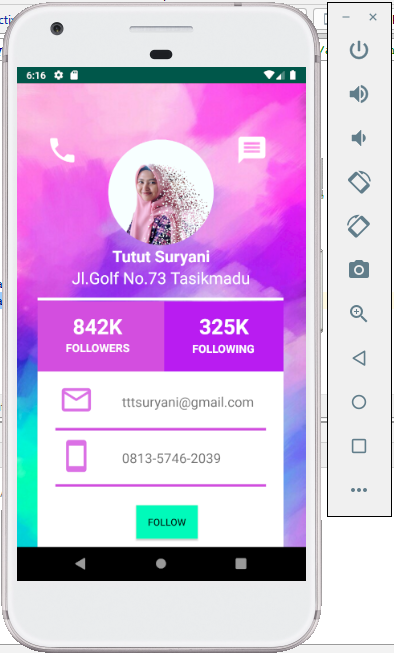
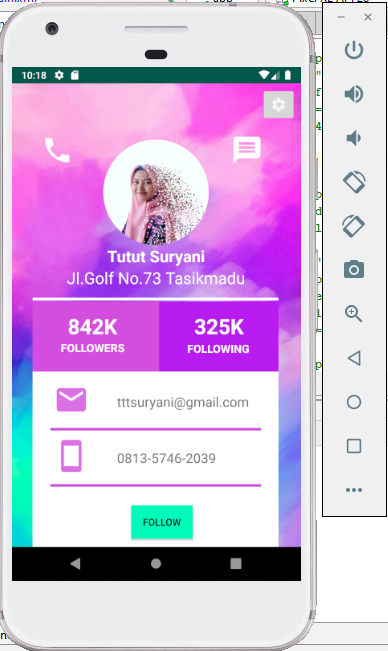
revisi setting

diff --git a/app/src/main/java/com/example/profile/MainActivity.java b/app/src/main/java/com/example/profile/MainActivity.java
@@ -2,13 +2,31 @@ package com.example.profile;
 
 import androidx.appcompat.app.AppCompatActivity;
 
+import android.content.Intent;
+import android.location.SettingInjectorService;
 import android.os.Bundle;
+import android.provider.Settings;
+import android.view.View;
+import android.widget.ImageButton;
 
-public class MainActivity extends AppCompatActivity {
+public class MainActivity extends AppCompatActivity implements View.OnClickListener{
 
+    ImageButton setting;
     @Override
     protected void onCreate(Bundle savedInstanceState) {
         super.onCreate(savedInstanceState);
         setContentView(R.layout.activity_main);
+
+        setting = findViewById(R.id.setting);
+
+        setting.setOnClickListener(this);
+    }
+
+    @Override
+    public void onClick(View v) {
+        if (v.getId()==R.id.setting){
+            Intent intent = new Intent(Settings.ACTION_LOCALE_SETTINGS);
+            startActivity(intent);
+        }
     }
 }
